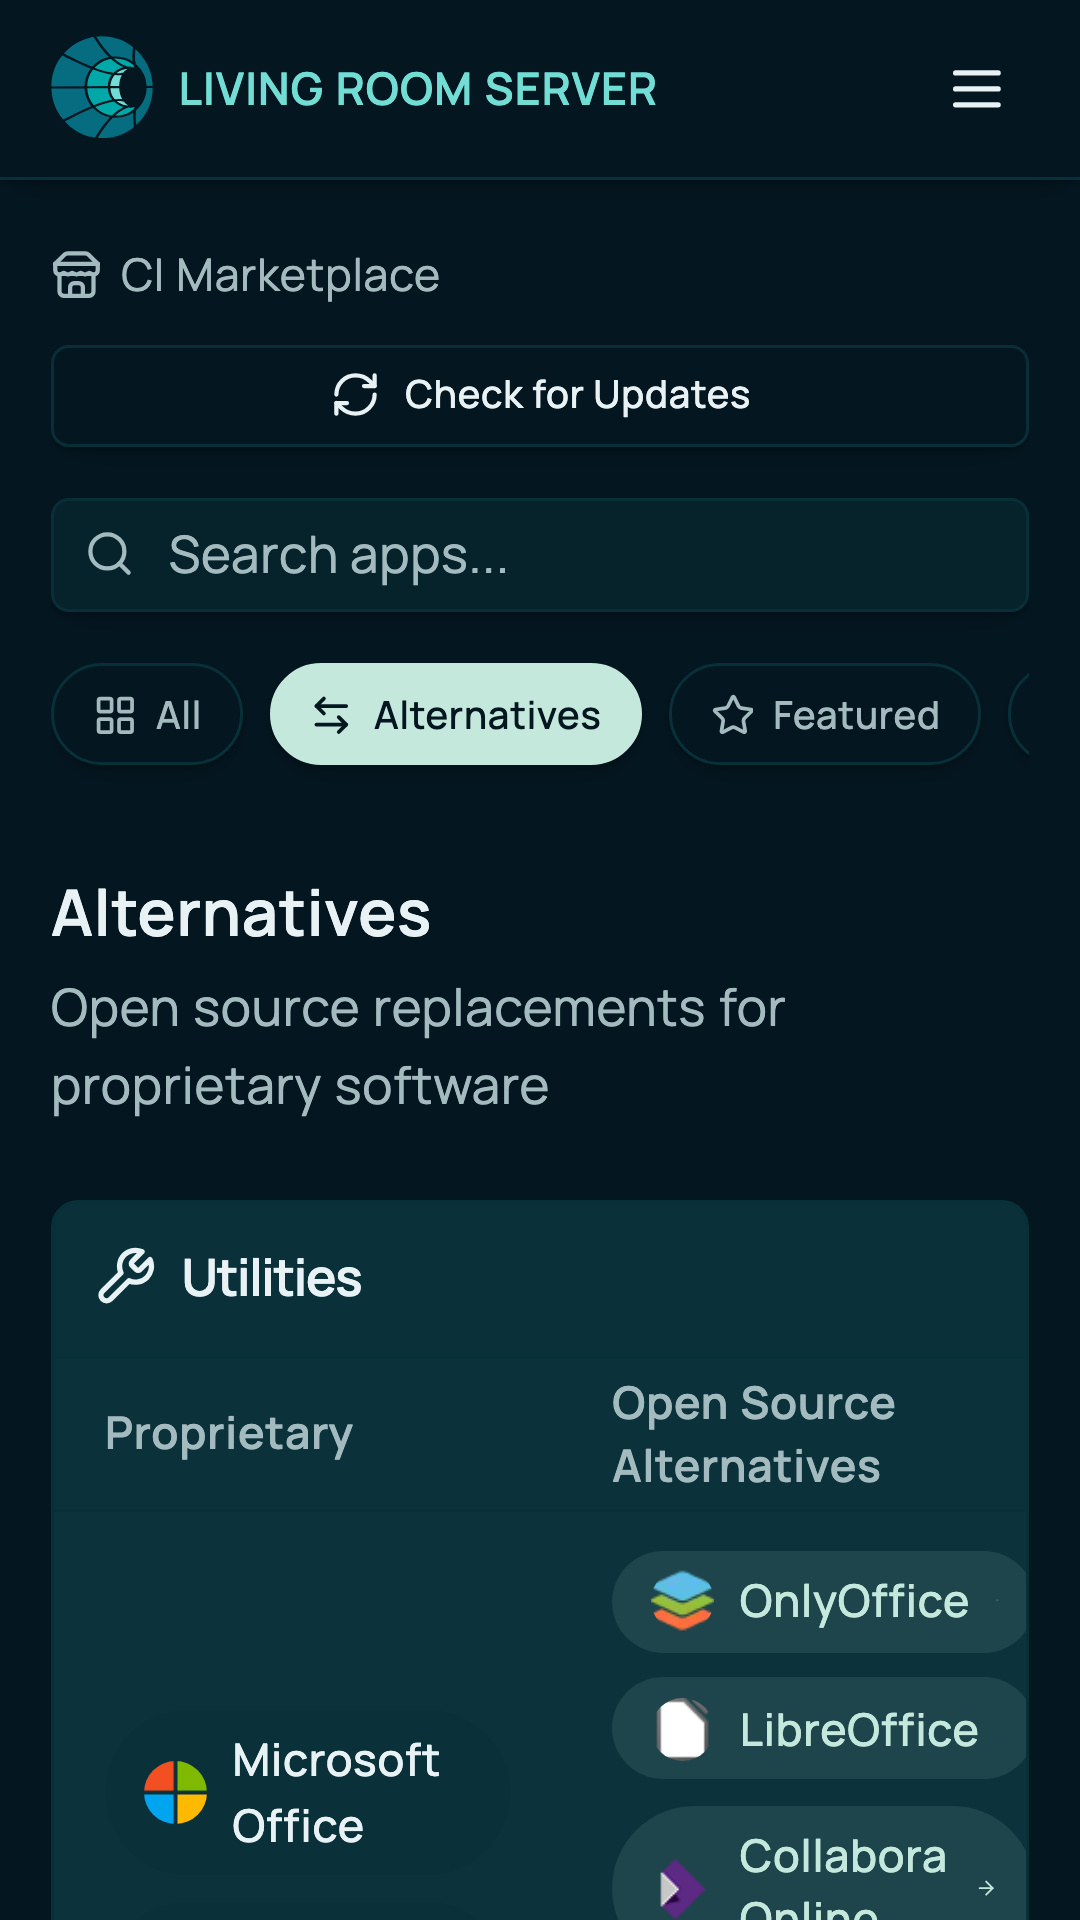
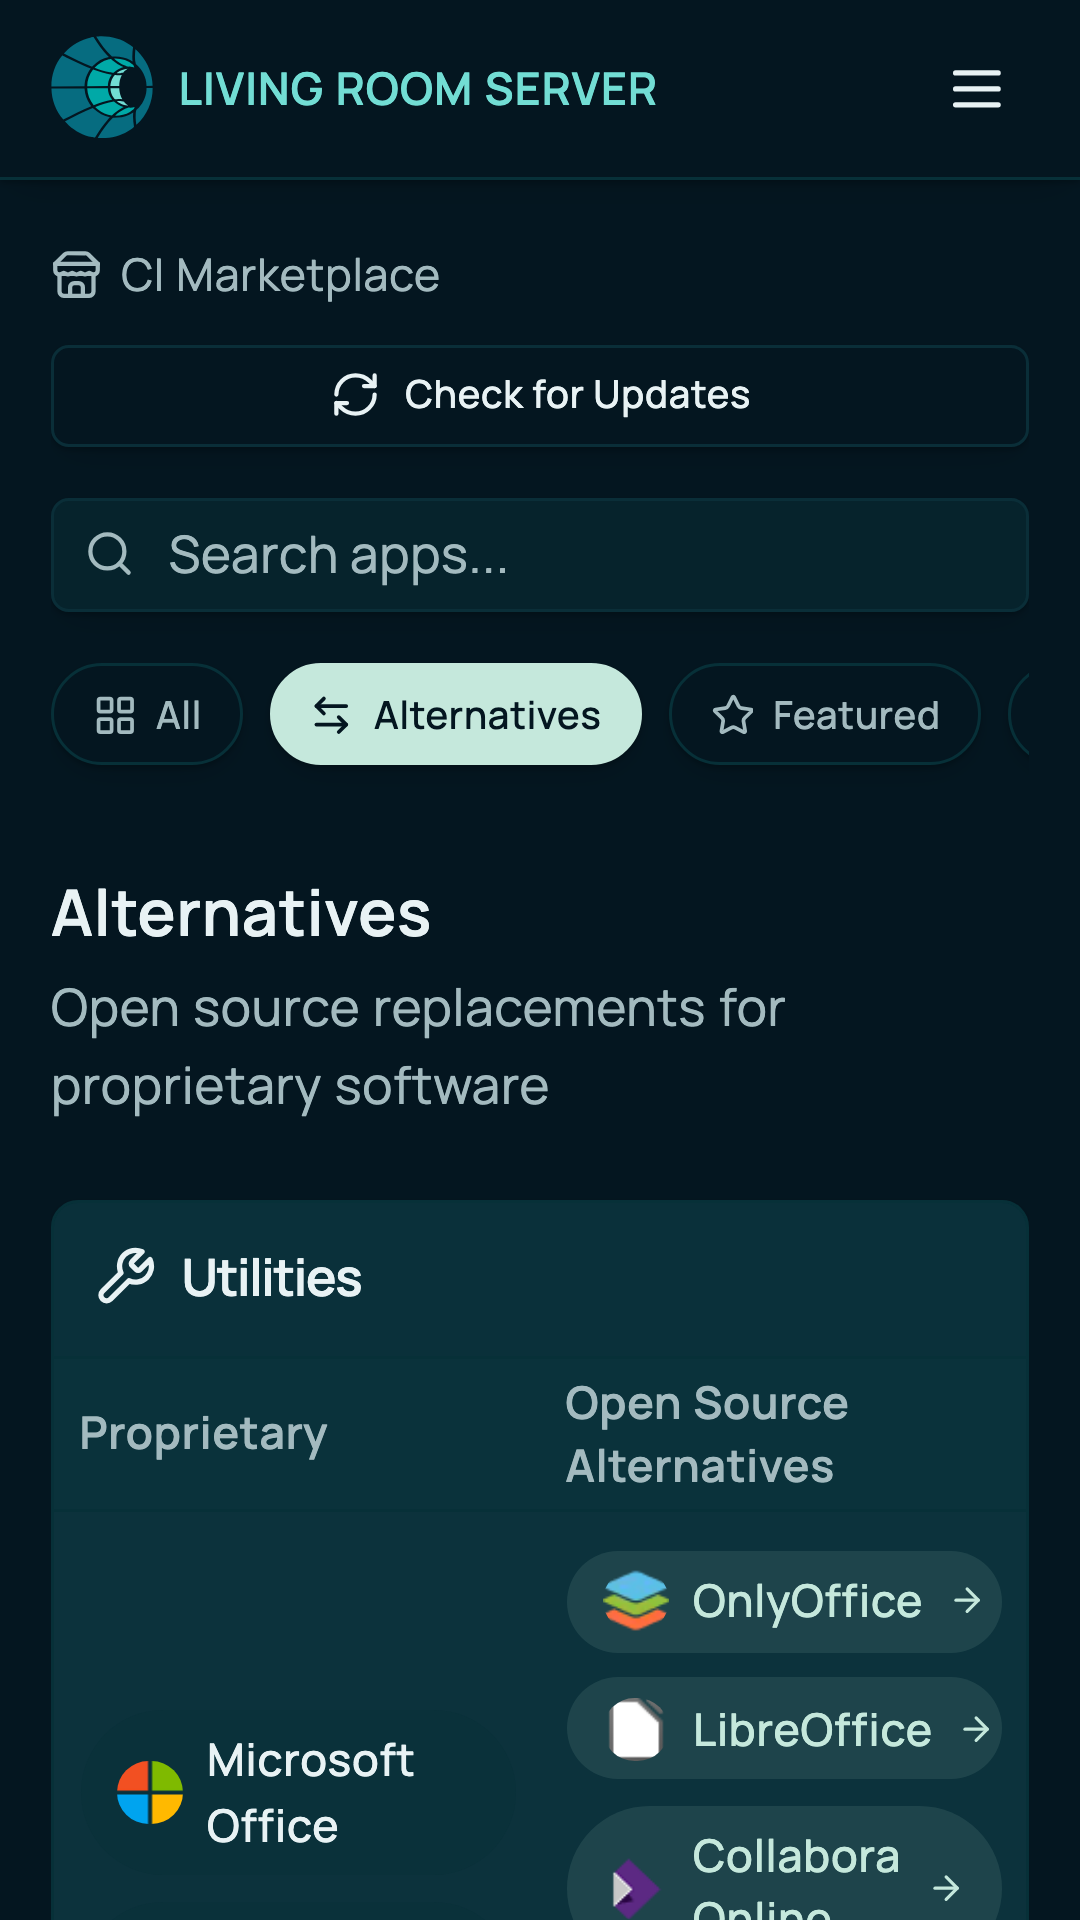
fix(store): keep the alternatives arrow from being crushed at 360px
Each in-store pill in the Alternatives table reads "OnlyOffice →" at 1280px
but lost its arrow at 360px — not clipped by the card, squeezed to nothing
inside the pill.

An <svg> carries UA `overflow: hidden`, so its `min-width: auto` resolves to
0 rather than a content-based minimum (CSS Flexbox §4.5). That makes the
lucide arrow the only child of the pill that flex is free to shrink to zero:
the sibling <img> and the "Soon" <span> are `overflow: visible` and hold
their size. Measured at 360px, 55 of 113 arrows were crushed, several to
exactly 0px, while all 113 were intact at 1280px.

`shrink-0` alone would have moved the bug rather than fixed it. The table's
min-content already exceeded its card (scrollWidth 344 vs clientWidth 324),
so an un-crushable arrow was simply pushed past the right edge of the
scroller — measured: 0 crushed but 8 arrows rendering outside the card.
Dropping the cell padding to `px-2` below `sm` buys back the 32px that makes
the table fit, which is the same mobile-first idiom the CardHeader above it
and the dashboard layout already use.

After: 0 crushed and 0 off-card at 360px, and the table no longer overflows
(scrollWidth 324 == clientWidth 324). 1280px is untouched — the landscape
plate differs by 13 antialiased pixels on one icon edge, so it is left as is.

Re-captured `store-alternatives.mobile.png`. The landscape `focus` rectangle
still frames the table and is honoured exactly, with no clamping.

diff --git a/packages/frontend/src/modules/app/pages/app-store-page.tsx b/packages/frontend/src/modules/app/pages/app-store-page.tsx
@@ -402,19 +402,23 @@ export default () => {
                       <CardTitle className="capitalize text-base">{altCategory}</CardTitle>
                     </div>
                   </CardHeader>
+                  {/* The tighter mobile cell padding is part of the arrow fix, not cosmetics: with the
+                      default `p-4` this table's min-content still exceeded the card at 360px, so an
+                      un-crushable arrow simply moved off the right edge of the scroller instead of
+                      disappearing inside the pill. `px-2` buys back the 32px that makes it fit. */}
                   <div className="w-full overflow-x-auto">
                     <Table>
                       <TableHeader>
                         <TableRow className="bg-muted/20 hover:bg-muted/20">
-                          <TableHead className="w-1/2 font-semibold">{t('APP_STORE_PROPRIETARY')}</TableHead>
-                          <TableHead className="w-1/2 font-semibold">{t('APP_STORE_OPEN_SOURCE_ALTERNATIVES')}</TableHead>
+                          <TableHead className="w-1/2 px-2 font-semibold sm:px-4">{t('APP_STORE_PROPRIETARY')}</TableHead>
+                          <TableHead className="w-1/2 px-2 font-semibold sm:px-4">{t('APP_STORE_OPEN_SOURCE_ALTERNATIVES')}</TableHead>
                         </TableRow>
                       </TableHeader>
                       <TableBody>
                         {(items as AltItem[]).map((item, index) => (
                           // biome-ignore lint/suspicious/noArrayIndexKey: Static list
                           <TableRow key={index}>
-                            <TableCell className="py-3">
+                            <TableCell className="px-2 py-3 sm:px-4">
                               <div className="flex flex-wrap gap-2">
                                 {item.proprietary.map((prop) => (
                                   <div
@@ -430,7 +434,7 @@ export default () => {
                                 ))}
                               </div>
                             </TableCell>
-                            <TableCell className="py-3">
+                            <TableCell className="px-2 py-3 sm:px-4">
                               <div className="flex flex-wrap gap-2">
                                 {item.alternatives.map((alt) => {
                                   const isInStore = isAlternativeInStore(alt);
@@ -445,7 +449,13 @@ export default () => {
                                           <img src={alt.icon} alt={alt.name} className="h-5 w-5 rounded-full object-cover" loading="lazy" />
                                         )}
                                         {alt.name}
-                                        <ArrowRight className="h-3 w-3" />
+                                        {/* `shrink-0` is load-bearing: an <svg> carries UA `overflow: hidden`, so its
+                                            `min-width: auto` resolves to 0 (CSS Flexbox 4.5) and the arrow is the one
+                                            child of this pill that flex can crush to nothing. At 360px it did exactly
+                                            that — 55 of 113 arrows, some to 0px — while the sibling <img> and "Soon"
+                                            <span> kept their size, because `overflow: visible` earns them a
+                                            content-based minimum. */}
+                                        <ArrowRight className="h-3 w-3 shrink-0" />
                                       </Link>
                                     );
                                   }
